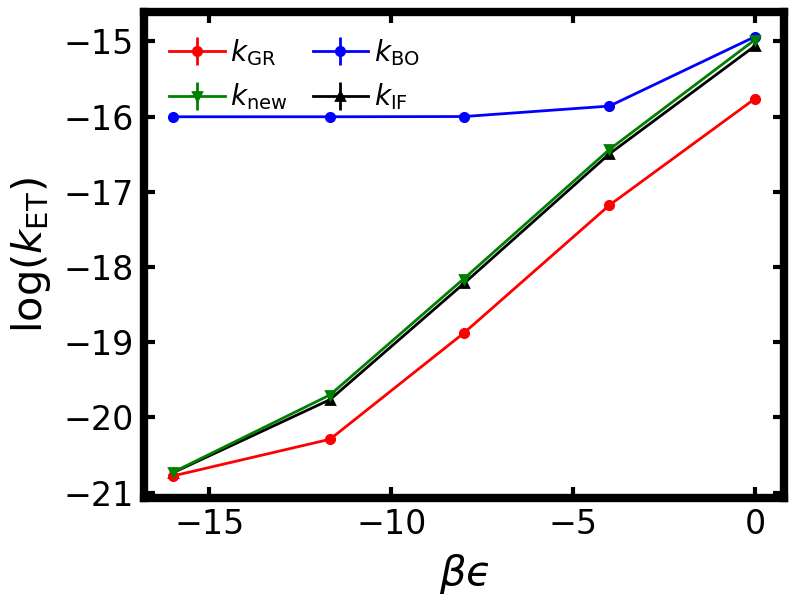
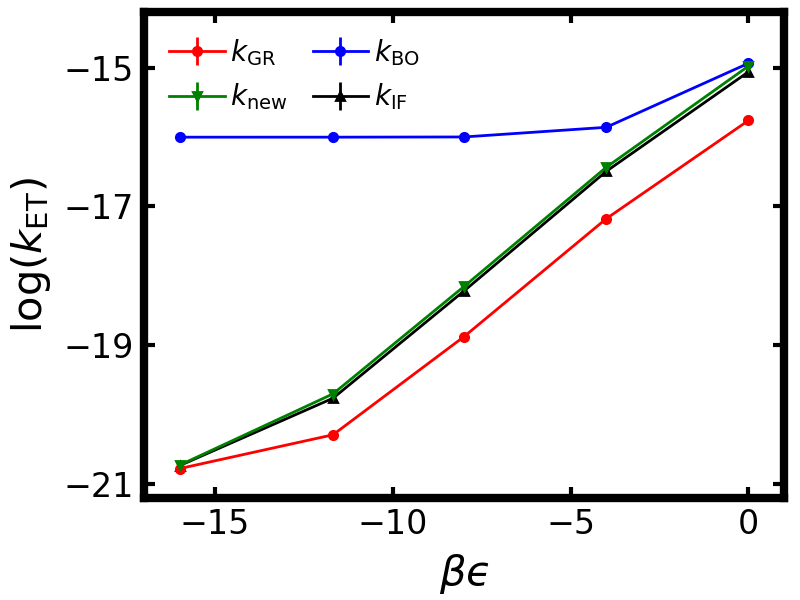
finished fig6 script

diff --git a/kcrpmd_figures/fig6.py b/kcrpmd_figures/fig6.py
@@ -124,10 +124,10 @@ ax.errorbar(beta * leps_arr, np.log10(kGR_arr), kGR_arr*0, fmt='o-', markersize=
 ax.errorbar(beta * leps_arr, np.log10(knew_arr), knew_se_arr / (knew_arr * np.log(10)), fmt='v-', markersize=3, linewidth=1, color='g', label=r'$k_\mathrm{new}$', zorder=4)
 ax.errorbar(beta * leps_arr, np.log10(kBO_arr), kBO_se_arr / (kBO_arr * np.log(10)), fmt='o-', markersize=3, linewidth=1, color='b', label=r'$k_\mathrm{BO}$', zorder=2)
 ax.errorbar(beta * leps_arr, np.log10(kIF_arr), kIF_se_arr / (kIF_arr * np.log(10)), fmt='^-', markersize=3, linewidth=1, color='k', label=r'$k_\mathrm{IF}$', zorder=1)
-#ax.set_xlim(-2.1,1.1)
-#ax.set_ylim(-21.0,-9.0)
-#ax.set_xticks([-2, -1, 0, 1])
-#ax.set_yticks([-20, -18, -16, -14, -12, -10])
+ax.set_xlim(-17,1)
+ax.set_ylim(-21.2,-14.2)
+ax.set_xticks([-15, -10, -5, 0])
+ax.set_yticks([-21, -19, -17, -15])
 ax.set_xlabel(r"$βϵ$", fontsize = 15)
 ax.set_ylabel(r"log($k_{\mathrm{ET}}$)", fontsize = 15)
 ax.set_title("")
